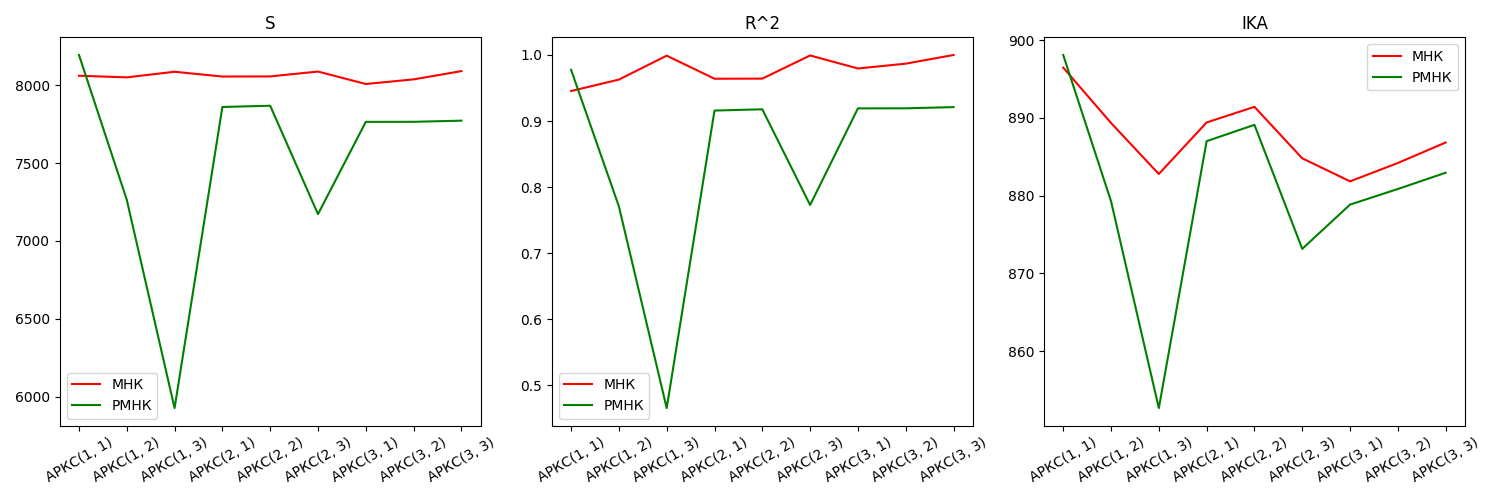
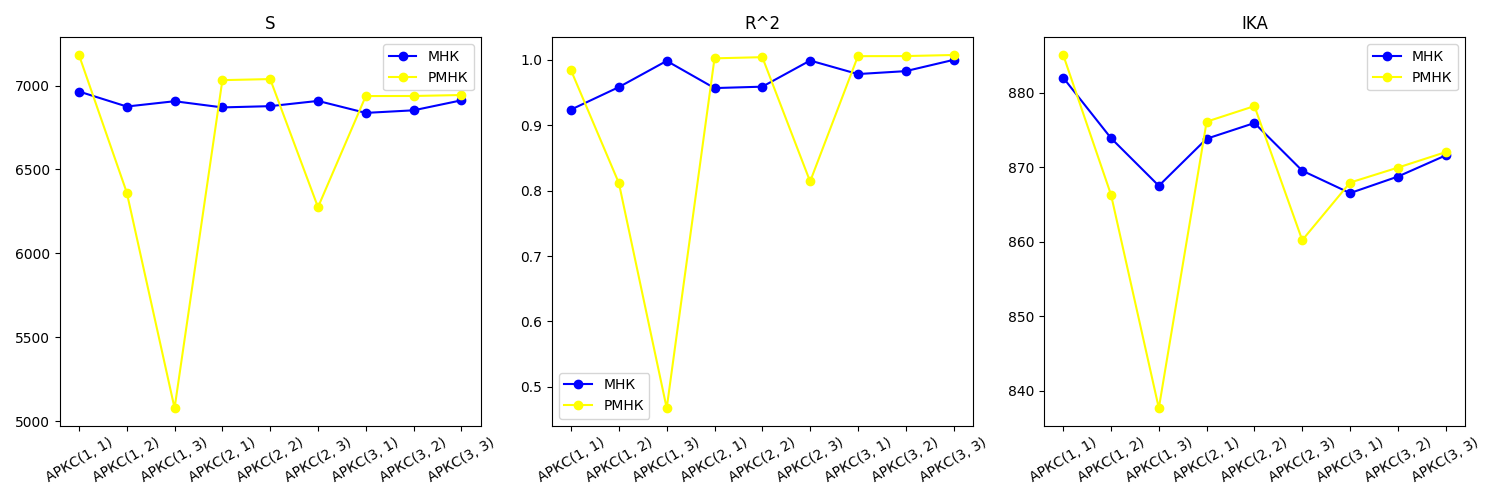
upd

diff --git a/lab1ira.py b/lab1ira.py
@@ -4,6 +4,9 @@ import matplotlib.pyplot as plt
 import os
 
 # ================== ПАРАМЕТРИ ==================
+MODE = "auto"         # "auto" = генерувати дані, "file" = читати з файлу
+DATA_FOLDER = "data"  # папка для файлів, якщо MODE = "file"
+
 P, Q = 3, 3           # порядок ARMA
 OBS = 100             # кількість спостережень
 ARMA_ALL = True       # рахувати всі моделі (True/False)
@@ -16,7 +19,7 @@ COEFFS = [0, 0.22, -0.18, 0.08, 0.5, 0.25, 0.25]
 
 # Функція для отримання значень (без вводу від користувача)
 def read_user_input():
-    folder = 'auto'
+    folder = MODE
     arma_all = ARMA_ALL
     arma = [P, Q]
     coeffs = COEFFS
@@ -156,10 +159,10 @@ def plot_all_we_need_to_plot(p, q, teta, obs, y, v, arma_all=False, result_metri
     fig, axs = plt.subplots(3, 3, figsize=(15, 15))
     for i in range(m):
         axs[int(i / 3), i % 3].plot(range(n), mnk_params[:, i], label='МНК', color='red')
-        axs[int(i / 3), i % 3].plot(range(n), rmnk_params[:, i], label='РМНК', color='green')
+        axs[int(i / 3), i % 3].plot(range(n), rmnk_params[:, i], label='РМНК', color='blue')
+        axs[int(i / 3), i % 3].plot(range(n), np.ones(n) * best_params[i], label='Еталонні значення', color='green', linestyle='--')
         axs[int(i / 3), i % 3].set_title(param_titles[i])
         axs[int(i / 3), i % 3].set_xlabel('k')
-        axs[int(i / 3), i % 3].plot(range(n), np.ones(n) * best_params[i], label='Еталонні значення', color='black', linestyle='--')
         axs[int(i / 3), i % 3].legend()
     plt.tight_layout()
     plt.savefig("params_plot.png")
@@ -170,8 +173,8 @@ def plot_all_we_need_to_plot(p, q, teta, obs, y, v, arma_all=False, result_metri
         titles = ['S', 'R^2', 'IKA']
         fig, axs = plt.subplots(1, 3, figsize=(15, 5))
         for i in range(3):
-            axs[i].plot(labels, metrics[:, i], label='МНК', color='red')
-            axs[i].plot(labels, metrics[:, i + 3], label='РМНК', color='green')
+            axs[i].plot(labels, metrics[:, i], label='МНК', color='blue', marker='o')
+            axs[i].plot(labels, metrics[:, i + 3], label='РМНК', color='yellow', marker='o')
             axs[i].set_title(titles[i])
             for tick in axs[i].get_xticklabels():
                 tick.set_rotation(30)
@@ -189,10 +192,12 @@ def main():
         obs = OBS
         v = gen_noise(obs)
         y = arma(p, q, teta, obs, v)
-    else:
+    elif folder == 'file':
         current_directory = os.path.dirname(os.path.abspath(__file__))
-        teta, v, y = read_file(current_directory + '/' + folder)
+        teta, v, y = read_file(os.path.join(current_directory, DATA_FOLDER))
         obs = min([len(v), len(y)])
+    else:
+        raise ValueError("MODE має бути 'auto' або 'file'")
 
     labels = []
     if arma_all:
